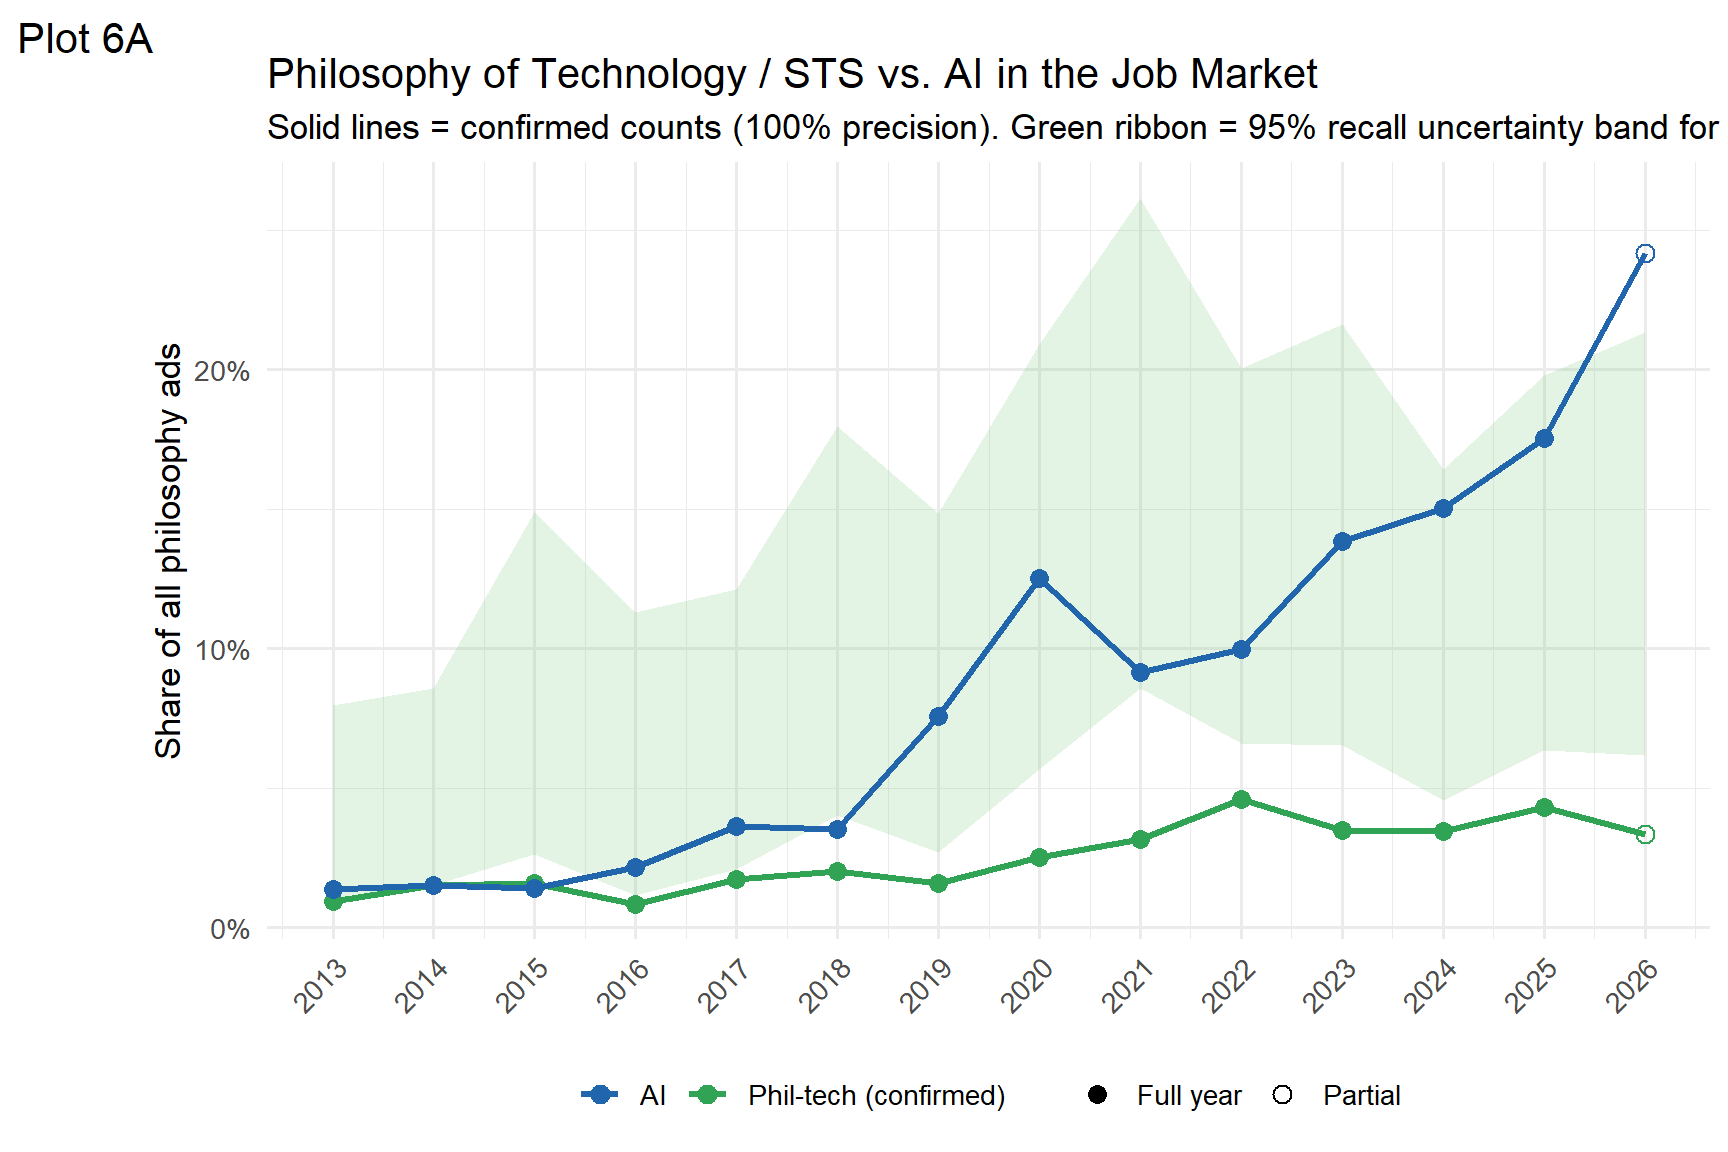
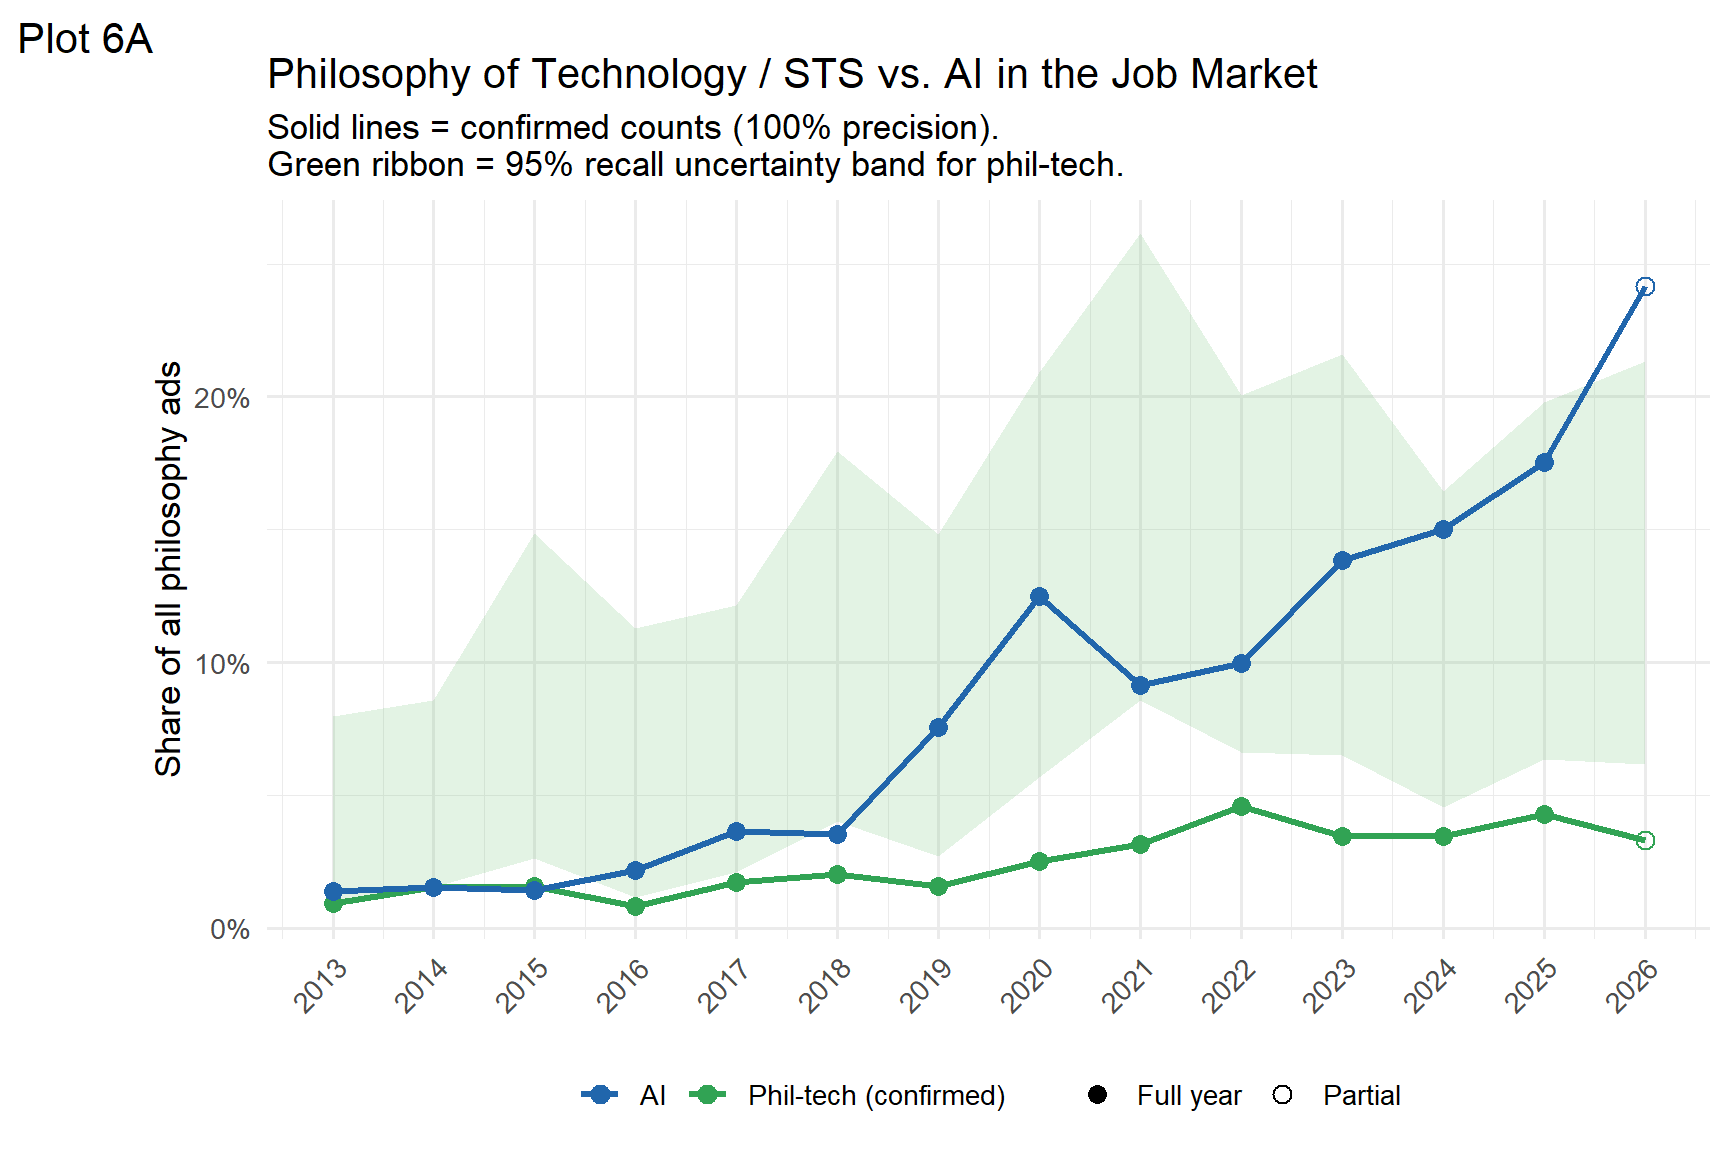
Update figures in AI and jobs post

diff --git a/posts/ai-and-jobs-in-academic-philosophy.html b/posts/ai-and-jobs-in-academic-philosophy.html
@@ -137,7 +137,7 @@ substantially pre- and post-2020, as seen in Tables 4 and 5:</p>
 <p>The data suggest three major regions for AI-related specializations
 in philosophy: the US, the Netherlands, and Hong Kong, seen in Plot
 5.</p>
-<p>One major limitation with respect to the international analysis:
+<p>One major limitation with respect to the international analyis:
 PhilJobs is the major source for jobs in academic philosophy in the
 English-speaking world. Universities outside the English-speaking world
 sometimes advertise in Philjobs, but I don’t have any data about the